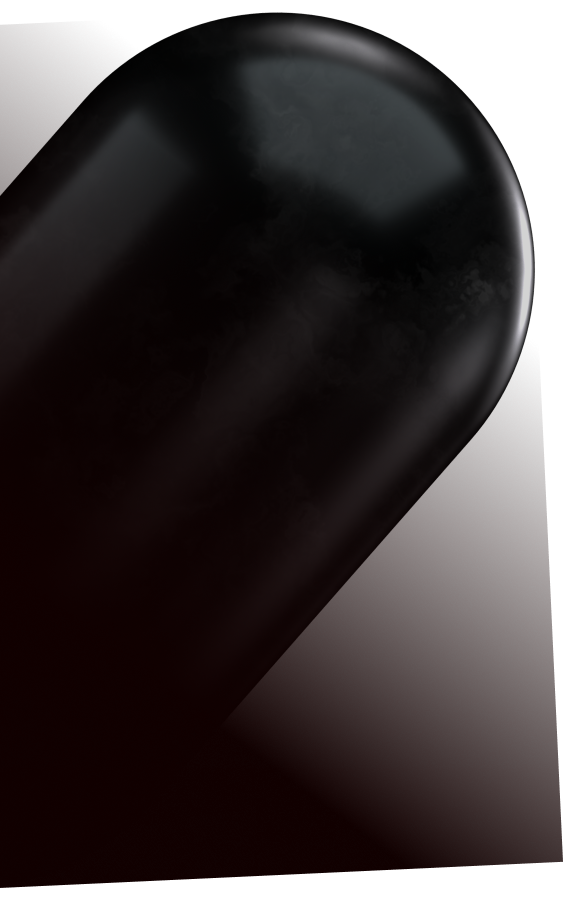
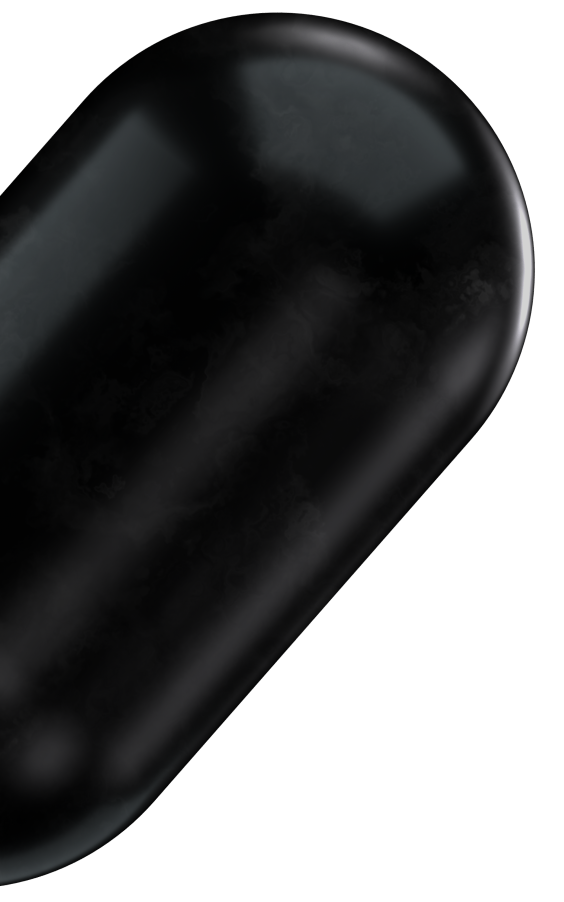
complate feature

diff --git a/src/assets/scss/_features.scss b/src/assets/scss/_features.scss
@@ -1,5 +1,18 @@
 .feature {
     margin-bottom: 218px;
+    &::before{
+        content: "";
+        position: absolute;
+        z-index: -1;
+        width: 100px;
+        height: 1280px;
+        left: 33%;
+        top: -23%;
+        background-color: #126BE8;
+        transform: rotate(-38deg);
+        filter: blur(200px)
+        }
+
     &-title {
         @include font-148;
         background: linear-gradient(92deg, #D2D2D7 27.5%, #A4A3AA 87.08%);
@@ -7,13 +20,14 @@
         -webkit-background-clip: text;
         -webkit-text-fill-color: transparent;
         margin-bottom: 84px;
+        padding-bottom: 84px;
     }
 
     &-cards {
         &::before {
             content:  "";
             position: absolute;
-            z-index: 1;
+            z-index: 2;
             height: 100%;
             width: 1px;
             background-color: #29334A;
@@ -21,6 +35,10 @@
             left: 45.5%;
             // transform: translateX(-50%);
 
+        }
+        .feature-img{
+            left: 33%;
+            top: 17%;
         }
         .feature-left {
             width: 440px;

diff --git a/src/component/Feature.jsx b/src/component/Feature.jsx
@@ -1,8 +1,9 @@
 import { Col, Container, Row } from "react-bootstrap";
+import featureimg from "../assets/img/featureimg.png"
 
 export default function Feature() {
   return (
-    <div className="feature">
+    <div className="feature position-relative z-0">
       <Container>
         <Row>
           <Col xs={12} className="text-center">
@@ -12,6 +13,7 @@ export default function Feature() {
         <Row className="justify-content-center">
           <Col xs={12} xl={10}>
             <div className="feature-cards d-md-flex justify-content-between position-relative z-n1 align-items-center">
+              <div className="position-absolute z-1 feature-img"><img src={featureimg} alt="" /></div>
               <div className="feature-left">
                 <div className="card-title">
                   <span>01</span>

diff --git a/src/component/Footer.jsx b/src/component/Footer.jsx
@@ -4,10 +4,12 @@ import logo from "../assets/img/logo.png"
 import { FaTelegramPlane } from "react-icons/fa";
 import { FaLinkedinIn } from "react-icons/fa";
 import { IoLogoGithub } from "react-icons/io";
+import footerimg from "../assets/img/footer-img.png";
 
 export default function Footer() {
   return (
-    <div className="footer">
+    <div className="footer position-relative z-0">
+      <div className="position-absolute z-n1 footerimg"><img src={footerimg} alt="" /></div>
       <Container>
       <div className="footer-content">
         <div className="d-flex footer-content-text ">

diff --git a/src/assets/scss/_footer.scss b/src/assets/scss/_footer.scss
@@ -1,4 +1,22 @@
 .footer {
+     .footerimg{
+        width: 381px;
+        height: 381px;
+        top: 0;
+        left: 35%;
+        top: -25%;
+     }
+     &::before{
+        content: "";
+        position: absolute;
+        z-index: -3;
+        width: 300px;
+        height: 300px;
+        left: 40%;
+        top: -39%;
+        background-color: #126BE8;
+        filter: blur(250px);
+     }
     &-content{
         border-radius: 22px;
         background: radial-gradient(222.96% 136.71% at 100% 102.95%, rgba(65, 128, 249, 0.08) 0%, rgba(130, 141, 244, 0.06) 100%);
